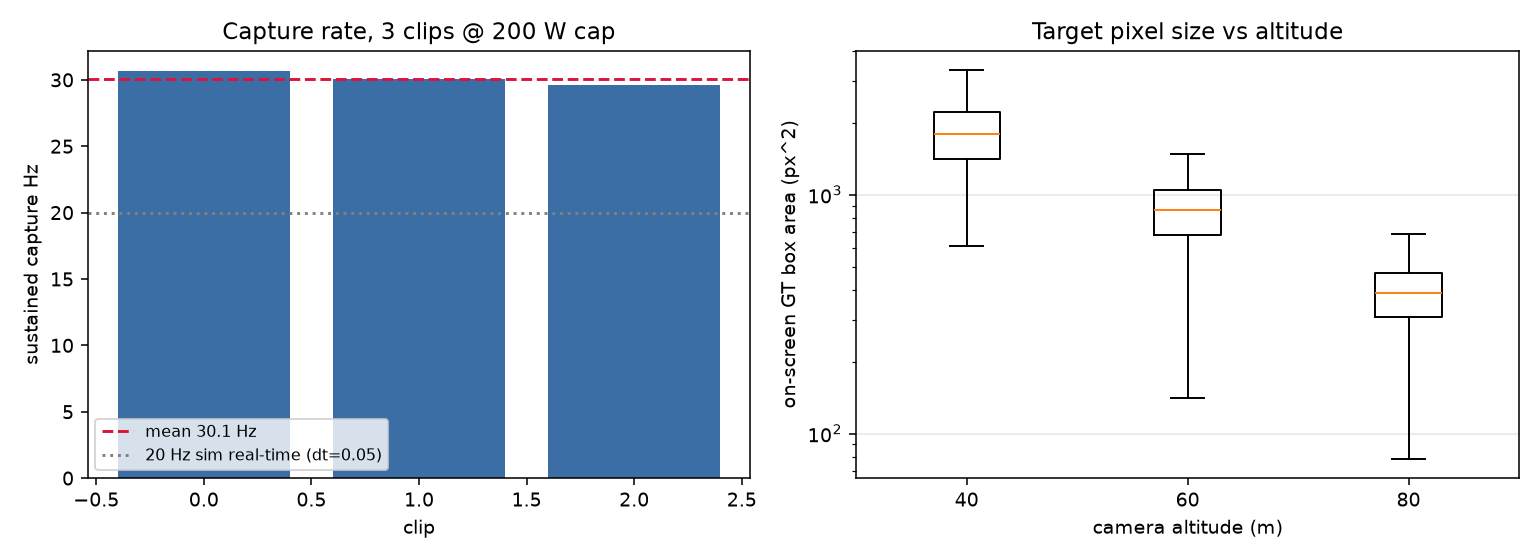
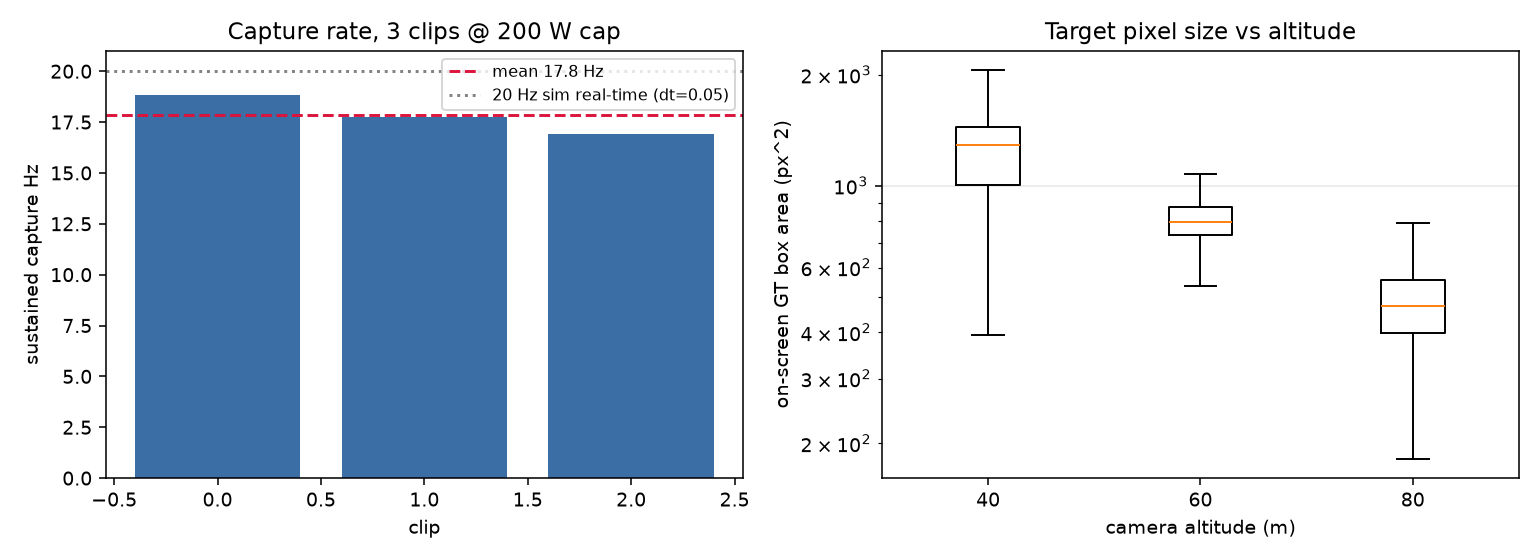
fix: keep the 793 MB GT bank out of git, and test 1/z^2 in the size figure
.gitignore line 41 whitelists gt.jsonl under experiments/*/runs/. That rule was
written when a gt.jsonl was small. This campaign writes 31.7 MB per clip, so the
25-clip bank would put 793 MB into a 593 MB .git. Worse, the file is written
incrementally: `git add -A` mid-capture committed a truncated clip03 (17.9 MB
against 32.4 MB on disk) that still parses as valid JSONL, which is the exact
well-formed-but-wrong failure this campaign exists to catch. Untracked, with a
targeted rule rather than a change to the global one other campaigns rely on.
The bank stays reproducible from the seeded runner, which is the actual record.

The altitude panel now counts only fully-in-frame boxes and draws the analytic
1/z^2 curve anchored on the lowest altitude. Clipped boxes report less area than
they project to, and low altitude clips most, so mixing them in flattened the
curve -- at 3 clips it read 1250:800:490 where the law predicts 1250:555:312.
That turns the panel from a description into a check the projection has to pass.

Claude-Session: https://claude.ai/code/session_017TWmSCu1NJTQR8HyaGgNQZ

diff --git a/experiments/2026-07-21-carla-gt-bank/make_proof.py b/experiments/2026-07-21-carla-gt-bank/make_proof.py
@@ -97,7 +97,10 @@ def bank_figure():
               title=f"Capture rate, {len(m)} clips @ 200 W cap")
     ax[0].legend(fontsize=8)
 
-    # sample GT areas: every 40th frame is plenty and keeps this script quick
+    # sample GT areas: every 40th frame is plenty and keeps this script quick.
+    # Only fully-in-frame boxes count. A box clipped by the frame edge reports a
+    # smaller area than it projects to, and low altitude clips the most, so mixing
+    # them in flattens the curve and hides whether the projection obeys 1/z^2.
     by_alt = {}
     for p in mans:
         alt = json.loads(p.read_text())["alt"]
@@ -105,15 +108,26 @@ def bank_figure():
             if i % 40:
                 continue
             for g in json.loads(line)["gt"]:
-                if g.get("area_vis_px", 0) > 1.0:
-                    by_alt.setdefault(alt, []).append(g["area_vis_px"])
+                whole = (g["n_proj"] == 8
+                         and g.get("area_vis_px", 0) >= g["area_px"] - 0.5)
+                if whole and g["area_px"] > 1.0:
+                    by_alt.setdefault(alt, []).append(g["area_px"])
     alts = sorted(by_alt)
     if alts:
         ax[1].boxplot([by_alt[a] for a in alts], tick_labels=[f"{int(a)}" for a in alts],
                       showfliers=False)
+        # 1/z^2 anchored on the lowest altitude's median: the projection is analytic,
+        # so this is a check the bank has to pass, not a trend line fitted to it
+        med0 = float(np.median(by_alt[alts[0]]))
+        ax[1].plot(range(1, len(alts) + 1),
+                   [med0 * (alts[0] / a) ** 2 for a in alts],
+                   "o--", color="crimson", ms=4,
+                   label=f"1/z^2 from {int(alts[0])} m median")
         ax[1].set_yscale("log")
-        ax[1].set(xlabel="camera altitude (m)", ylabel="on-screen GT box area (px^2)",
+        ax[1].set(xlabel="camera altitude (m)",
+                  ylabel="projected GT box area (px^2), fully in frame",
                   title="Target pixel size vs altitude")
+        ax[1].legend(fontsize=8)
         ax[1].grid(alpha=0.3, axis="y")
 
     fig.tight_layout()
